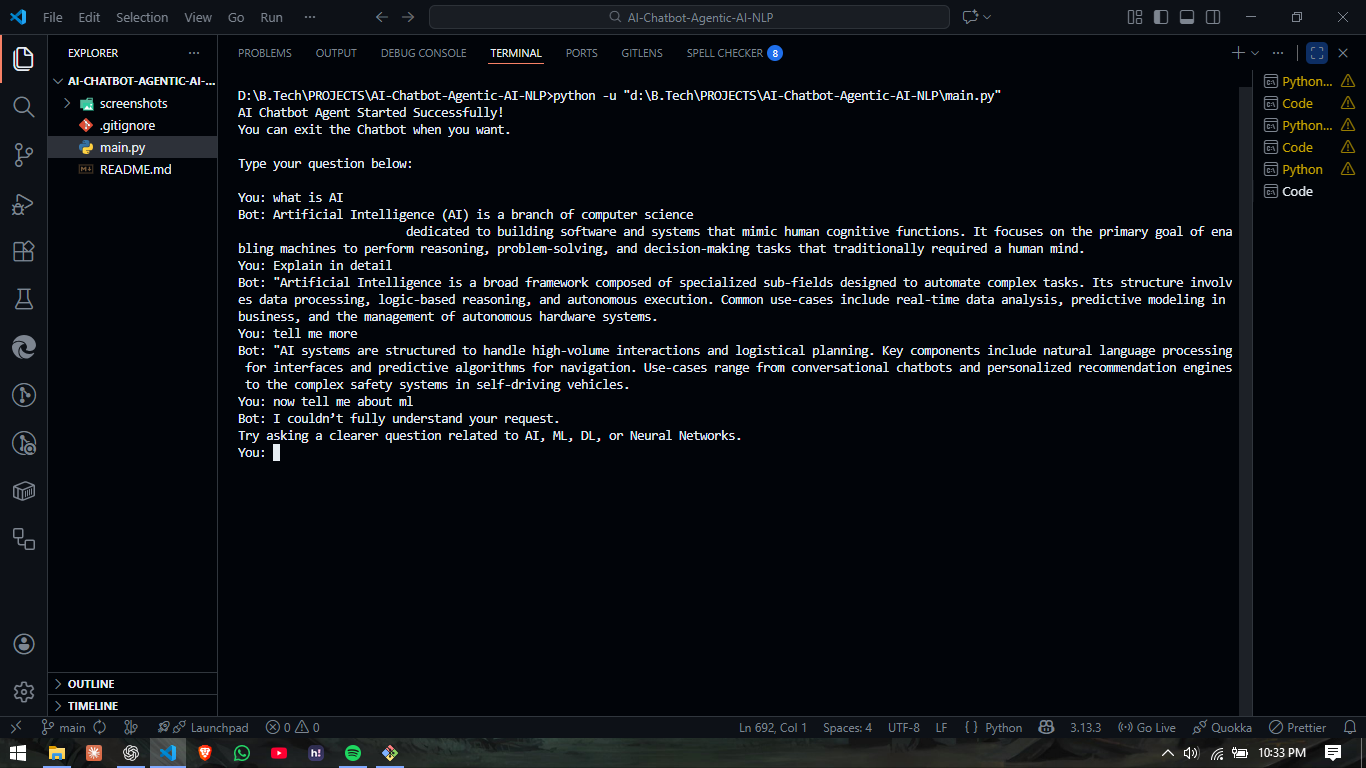
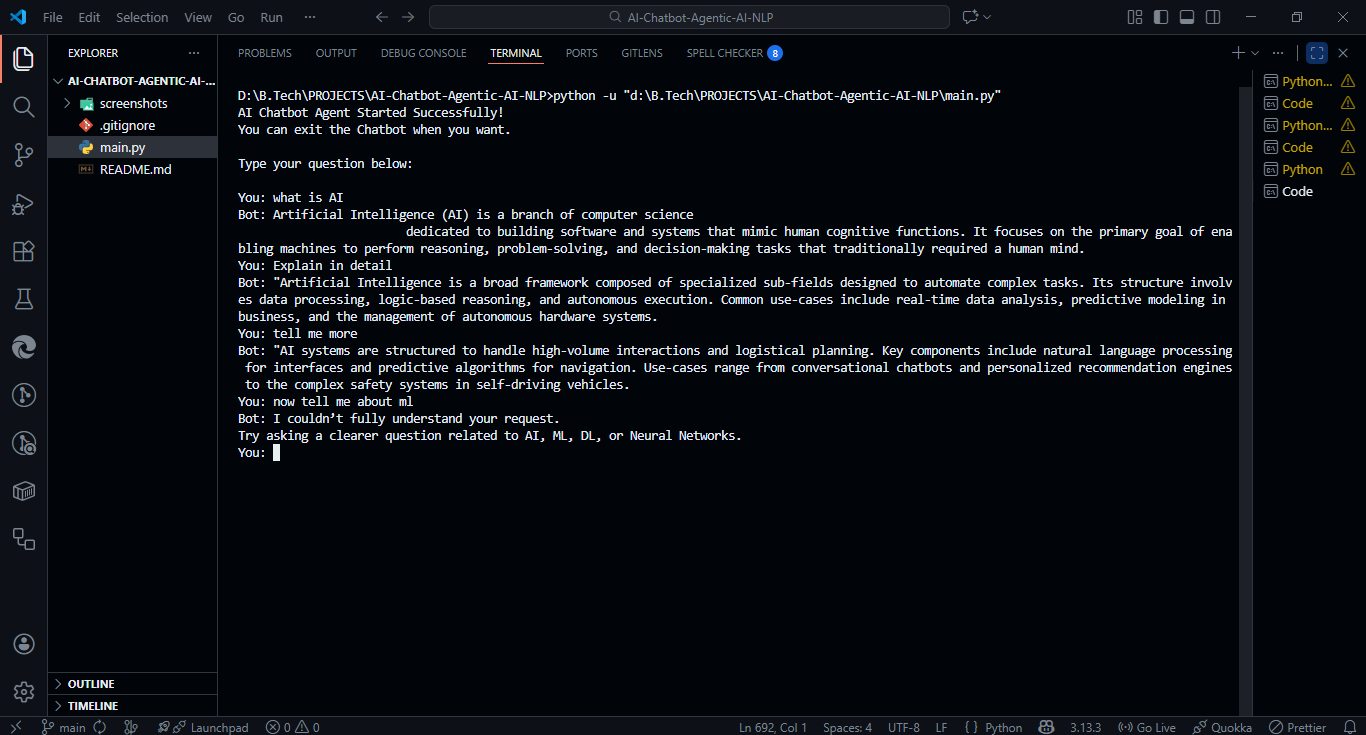
🚀 Version 2.0 Release - Major Feature Update
- Added multi-level explanation control (BASIC/DETAILED)
- Implemented topic switching capability
- Enhanced context memory with depth tracking
- Added memory reset functionality with confirmation
- Improved unknown intent handling
- Complete README overhaul with professional documentation
- Added sample interaction screenshots

diff --git a/README.md b/README.md
@@ -192,7 +192,7 @@ This workflow simulates **true agent-based intelligent behavior** with stateful 
 
 ### 📸 Example 2: Multi-Level Explanations & Topic Switching
 
-![Sample Interaction 2](screenshots/sample_interaction_2.png)
+![Sample Interaction 2](screenshots/sample_interacyion_2.png)
 
 **Demonstrates:**
 - **Detailed explanation mode** when explicitly requested
